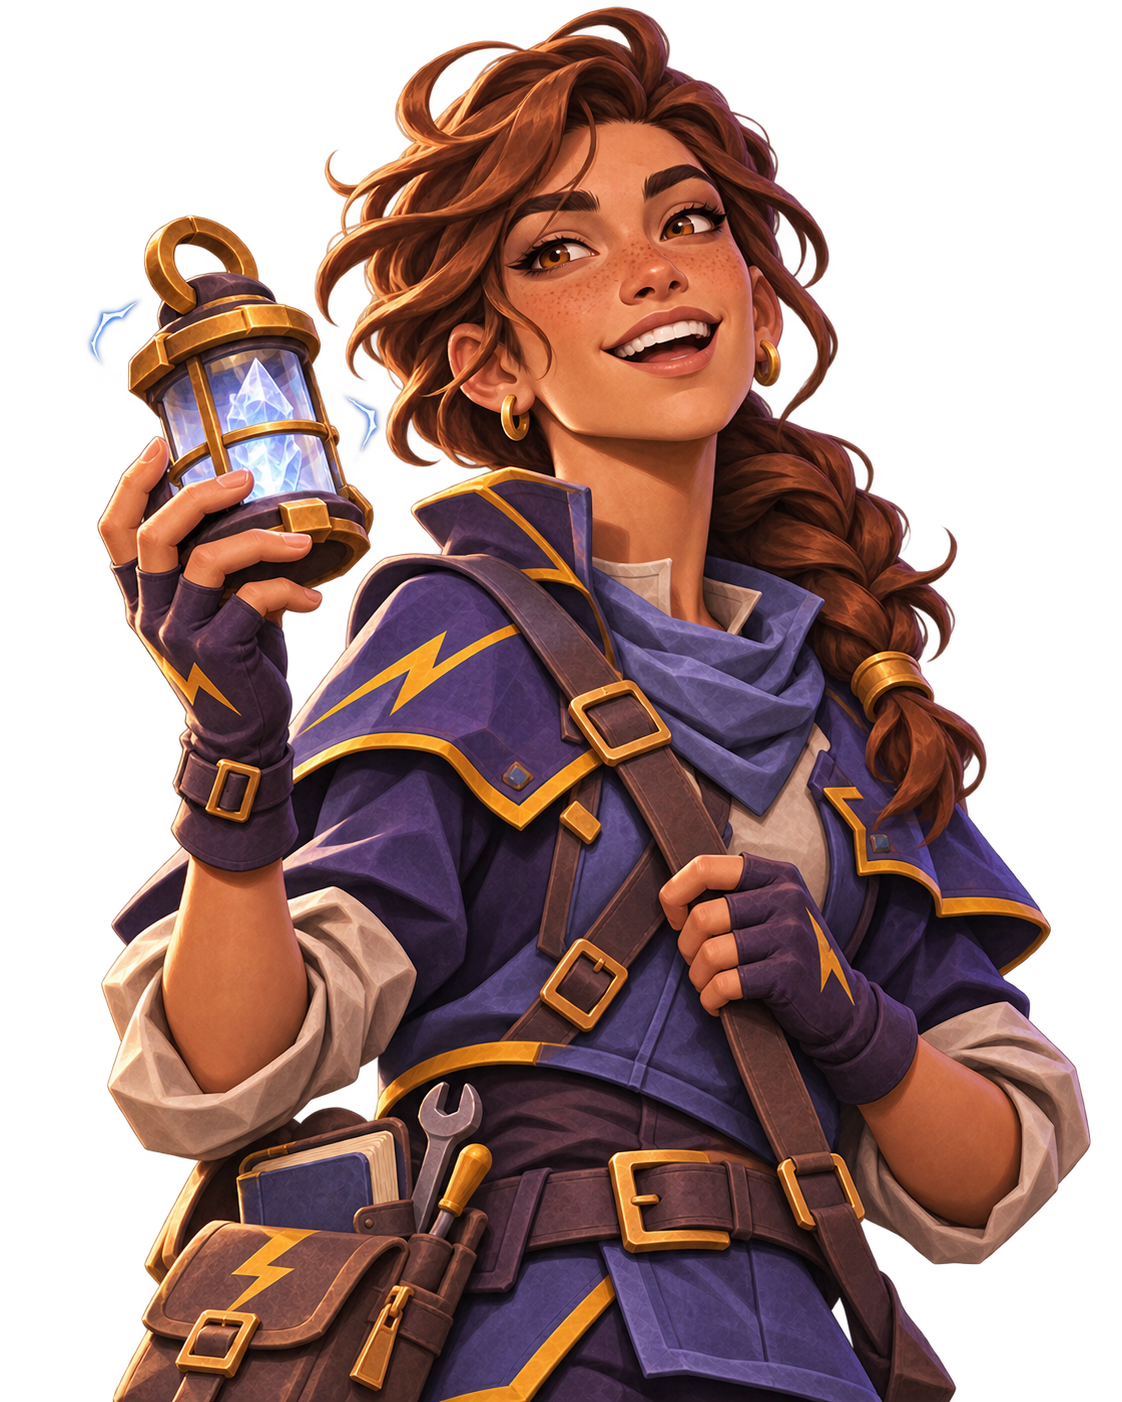
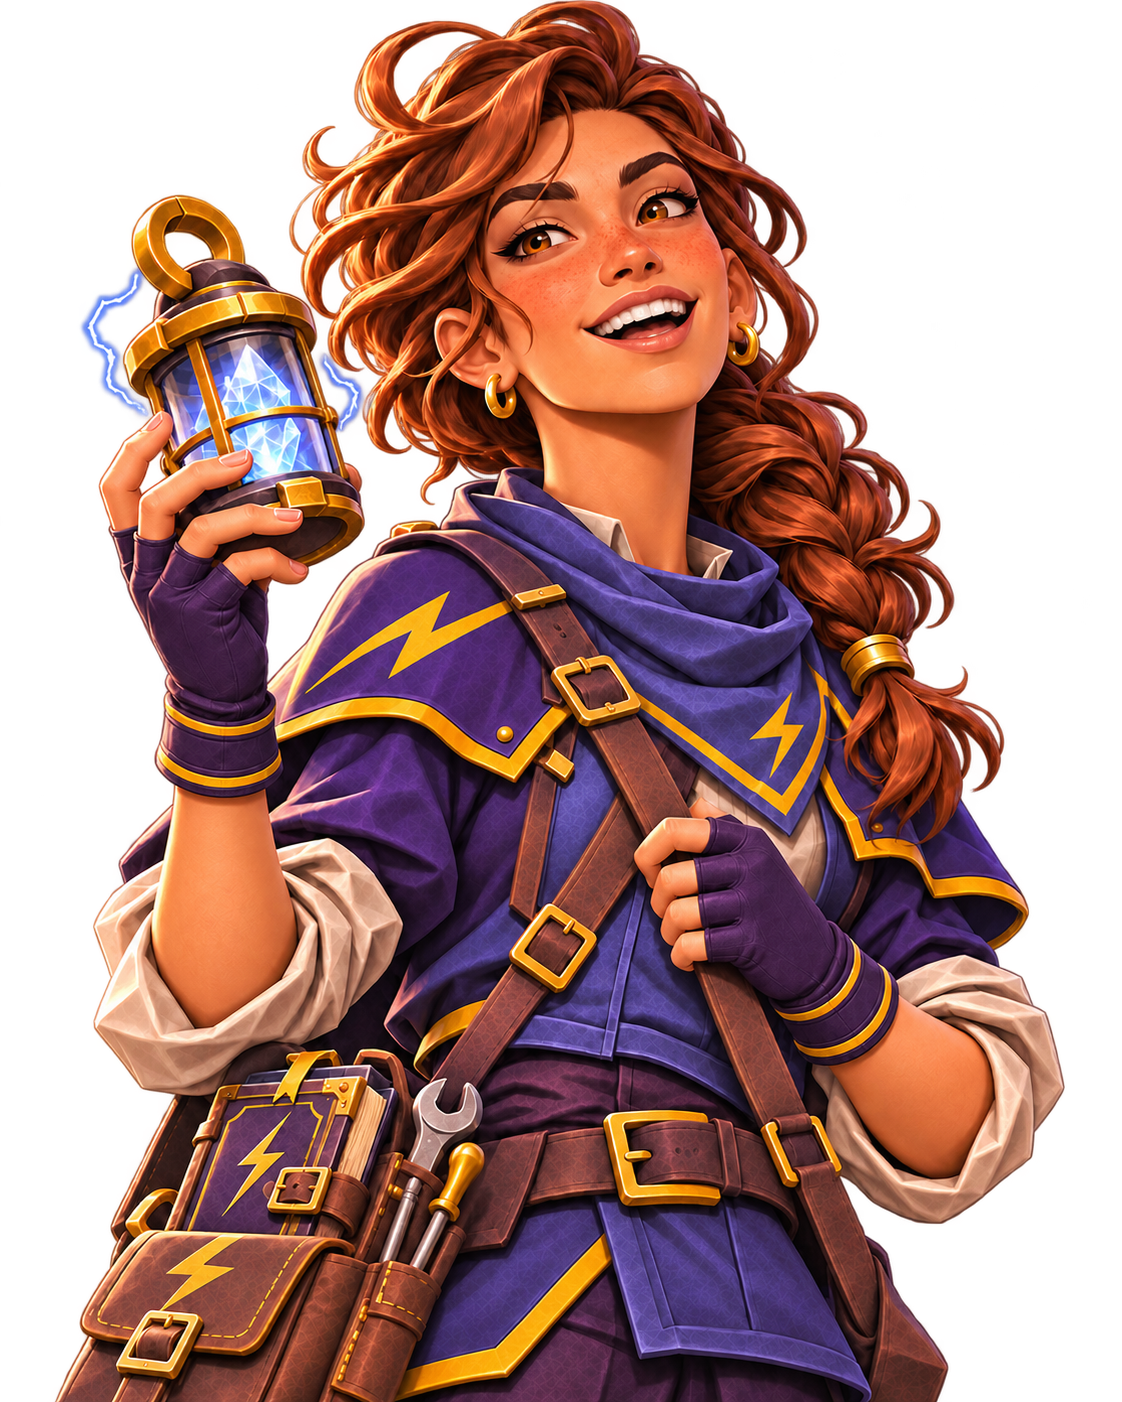
Add Nera modeling concept and update portrait

diff --git a/RIFTORYN_PROPOZYCJE_MODELOWANIA_POSTACI.md b/RIFTORYN_PROPOZYCJE_MODELOWANIA_POSTACI.md
@@ -15,6 +15,7 @@ Arkusze do modelowania trzymamy w [assets/heroes/modeling-concepts](assets/heroe
 - [Nocten — arkusz postaci](assets/heroes/modeling-concepts/nocten.png). Referencja do przyszłego modelowania; koncepcja przedstawia starszego Wsparcia Ciemności.
 - [Lucen — arkusz postaci](assets/heroes/modeling-concepts/lucen.png). Referencja do przyszłego modelowania Specjalisty Światła; przedstawia widoki postaci, strój, mimikę i przykładowe pozy.
 - [Lena — arkusz postaci](assets/heroes/modeling-concepts/lena.png). Referencja dla przygotowywanej bohaterki Wsparcia Światła; pozy i umiejętności na planszy są pomysłami, a nie zatwierdzoną specyfikacją.
+- [Nera — arkusz postaci](assets/heroes/modeling-concepts/nera.png). Referencja do modelowania Wsparcia Błyskawic; podpis „Lightning Specialist” na planszy nie zmienia roli Nery w projekcie.
 - [Neris i Shadow — arkusz postaci](assets/heroes/modeling-concepts/neris-blender-reference.png). Referencja do modelowania Neris i jej kruka.
 - [Adrien — arkusz postaci](assets/heroes/modeling-concepts/adrien-blender-reference.png). Referencja do modelowania Specjalisty Światła.
 - [Ruvan — portret](riftoryn-unity/Assets/Resources/Portraits/ruvan.png). Specjalista Lodu z Nivoren i mentor Saily. W kodeksie widnieje jako postać w przygotowaniu.
@@ -49,7 +50,7 @@ Arkusze zawierają widoki postaci, twarze, przykładowe ekspresje, kolory, wymia
 
 ## Pokrycie kart koncepcyjnych bohaterów
 
-GDD wymienia 30 głównych bohaterów oraz Lucena jako dodatkową alternatywę dla kombinacji Specjalista / Światło. W repozytorium są referencje modelowania 24 postaci z tej grupy: Ana, Brom, Dara, Eira, Elira, Iskar, Kael, Koneva, Liora, Miko, Morrak, Neris, Niva, Nocten, Orien, Pyrra, Rian, Saila, Solan, Taren, Thora, Zet, Adrien i Lucen. Dodatkowo Lena ma arkusz modelarski jako postać w przygotowaniu, a Ruvan — portret. Petów nie liczymy jako bohaterów.
+W repozytorium są referencje modelowania 25 bohaterów: Ana, Brom, Dara, Eira, Elira, Iskar, Kael, Koneva, Liora, Miko, Morrak, Nera, Neris, Niva, Nocten, Orien, Pyrra, Rian, Saila, Solan, Taren, Thora, Zet, Adrien i Lucen. Lucen jest dodatkową alternatywą dla kombinacji Specjalista / Światło. Dodatkowo Lena ma arkusz modelarski jako postać w przygotowaniu, a Ruvan — portret. Petów nie liczymy jako bohaterów.
 
 Brakuje kart modelowania siedmiu bohaterów: Varek, Eron, Kiran, Morven, Volt, Rokan i Lumen. Każdy ma już portret, ale sam portret nie zastępuje arkusza z widokami do modelowania. Obecność arkusza nie oznacza istnienia gotowego modelu 3D.
 
@@ -95,6 +96,12 @@ Brakuje kart modelowania siedmiu bohaterów: Varek, Eron, Kiran, Morven, Volt, R
 - [Thora — arkusz postaci](assets/heroes/modeling-concepts/thora.png). To referencja do modelowania, nie gotowy model 3D.
 - Sylwetka: mocno zbudowana strażniczka Natury z tarczą, liściastym płaszczem i pancerzem z motywami drewna. Arkusz proponuje wzrost ok. 182–186 cm.
 - Proporcje, warstwy stroju, animacje i efekty korzeni należy zweryfikować w kamerze gry; ilustracja nie zmienia zasad umiejętności.
+
+## Nera — referencja do modelowania
+
+- [Nera — arkusz postaci](assets/heroes/modeling-concepts/nera.png) oraz [poprawiony portret](assets/heroes/portraits/nera-lightning-support.png), dostarczone przez autora. Arkusz jest referencją do przyszłego modelu 3D.
+- Sylwetka: rude włosy z luźnym bocznym warkoczem, piegi, fioletowo-złoty strój z motywem błyskawic, szal, skórzana torba, notatnik, narzędzia i kryształowa lampa sygnałowa. Arkusz proponuje wzrost ok. 168–172 cm.
+- Widoki postaci, mimika, warstwy ubioru i pozy są materiałem do modelowania i animacji. Podpis „Lightning Specialist / Jack-of-All-Trades” oraz przykładowe akcje na planszy nie zmieniają ustalonej roli Wsparcia Błyskawic ani zasad umiejętności z GDD.
 
 ## Kierunek wizualny
 
